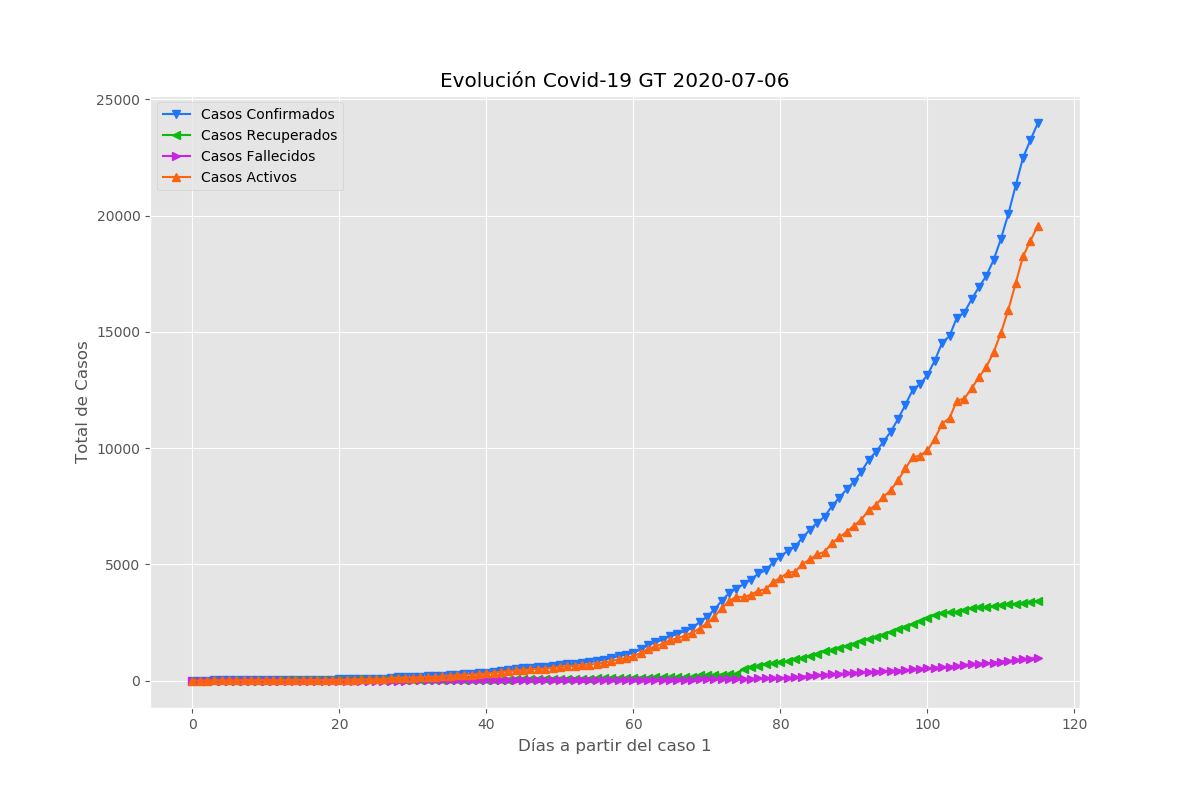
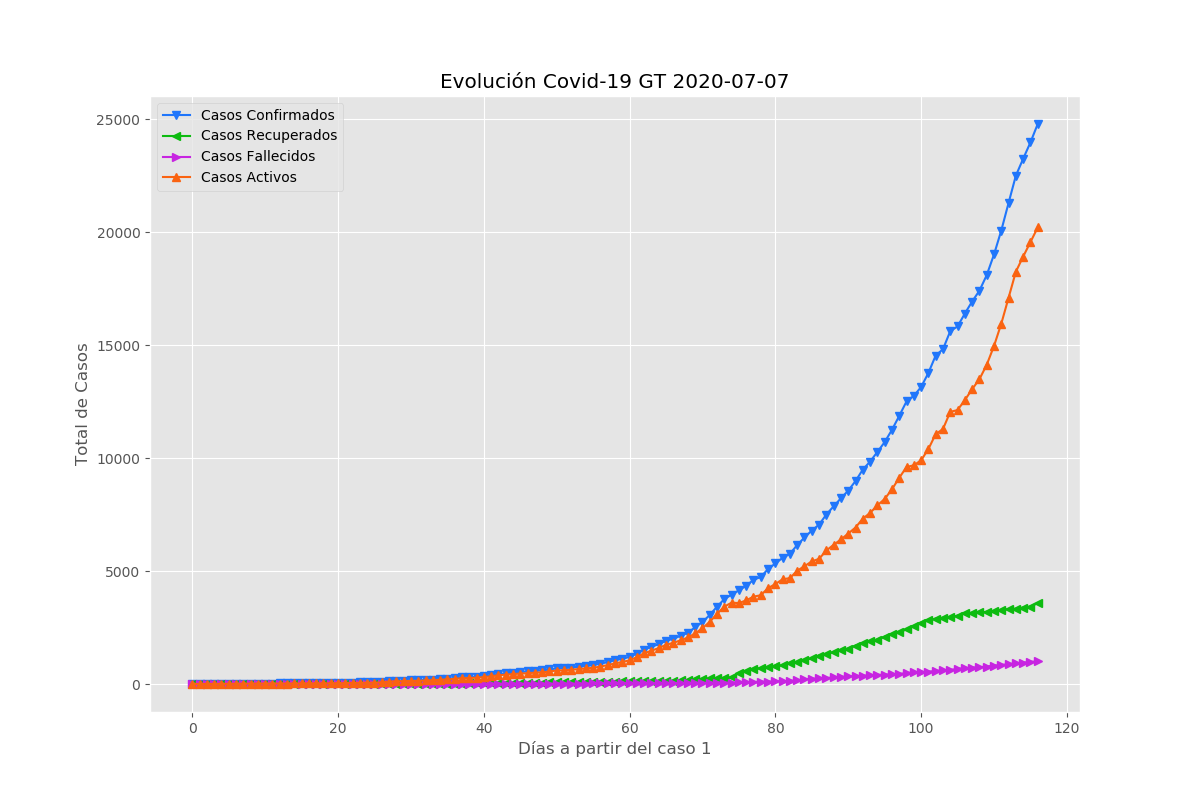
Actualizacion 8julio2020

diff --git a/_posts/2020-06-26-Estadisticos_Graficos.md b/_posts/2020-06-26-Estadisticos_Graficos.md
@@ -12,15 +12,15 @@ Estas gráficas son generadas a partir de los datos en [nuestro repositorio](htt
 
 # Estadísticos Relevantes, actualizados 06 junio 2020:
 
-confirmados:  23972
+confirmados:  25411
 
-recuperados:  3429
+recuperados:  3718
 
-fallecidos:  981
+fallecidos:  1053
 
-activos:  19560
+activos:  20638
 
-pruebas realizadas:  97720
+pruebas realizadas:  100307
 
 # Gráficas
 
